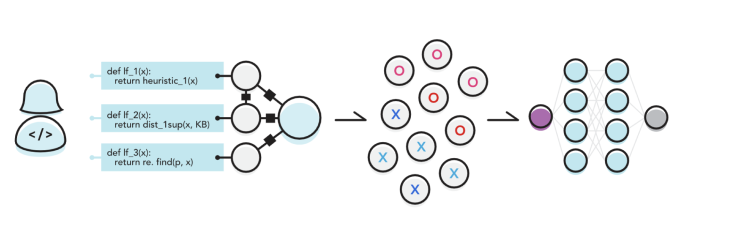
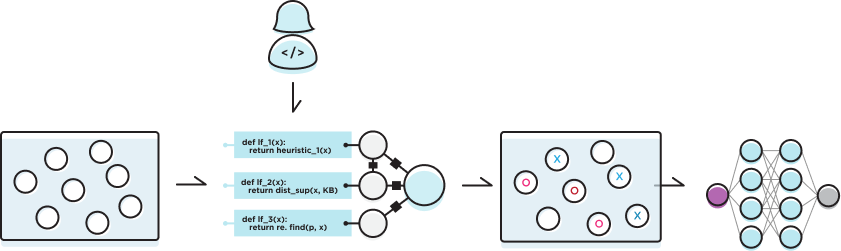
updated graphics

diff --git a/features.html b/features.html
@@ -26,7 +26,7 @@ title: Features and Capabilities
         </p>
       </div>
       <div class="col-sm-6">
-        <img src="/doks-theme/assets/images/layout/TrainingData.png" alt="Training Data Operations">
+        <img src="/doks-theme/assets/images/layout/Overview.png" alt="Training Data Operations">
       </div>
     </div>
     <br>
